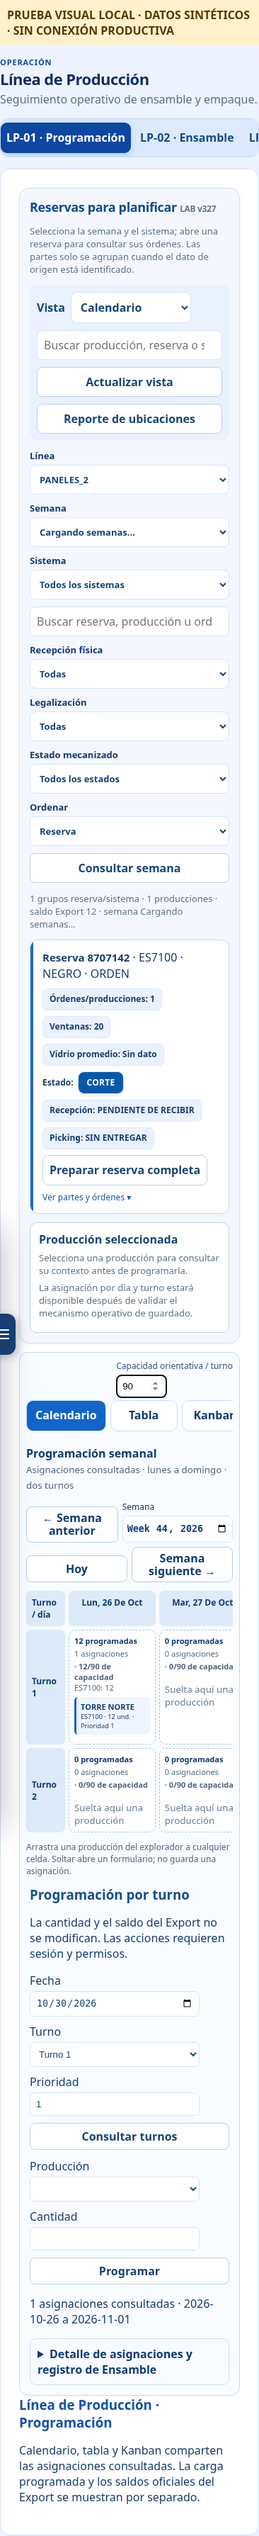
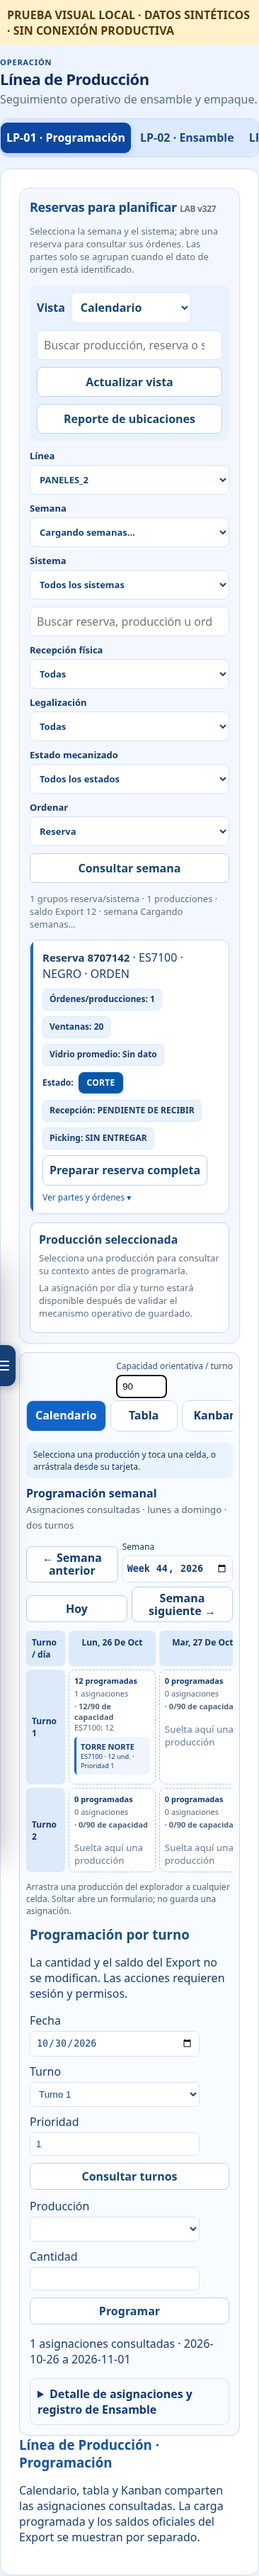
fix(lp01): arrastrar tarjetas en PC y móvil

diff --git a/src/modules/lp01-workspace-e3.js b/src/modules/lp01-workspace-e3.js
@@ -92,15 +92,81 @@
   capacity.addEventListener('input', markCapacity);
   markCapacity();
 
-  // The drop only prepares the existing single-production form. A separate click saves it.
-  explorer.addEventListener('dragstart', event => {
-    const button = event.target.closest('[data-plan-key]');
-    if (!button?.dataset.planKey) return;
-    event.dataTransfer.setData('text/plain', button.dataset.planKey);
-    event.dataTransfer.effectAllowed = 'copy';
+  // Every interaction prepares the existing single-production form; none writes data.
+  const results = explorer.querySelector('#sgpExplorerResults');
+  const viewContent = operations.querySelector('.sgp-line-view-content');
+  const selectedStatus = document.createElement('p');
+  selectedStatus.className = 'lp01-selection-status';
+  selectedStatus.setAttribute('role', 'status');
+  selectedStatus.textContent = 'Selecciona una producción y toca una celda, o arrástrala desde su tarjeta.';
+  operations.querySelector('.sgp-line-views')?.insertBefore(selectedStatus, viewContent);
+  let selectedKey = null;
+  let dragKey = null;
+  let activeCell = null;
+  const cards = () => [...results.querySelectorAll('.sgp-explorer-order[data-lp-key]')];
+  const cells = () => [...operations.querySelectorAll('.lp-week-cell[data-lp-date][data-lp-shift]')];
+  const rowFor = key => (window.SGPPlannerBridge?.getRows?.() || []).find(item => String(item.key_produccion) === String(key));
+  function markReady(ready) { cells().forEach(cell => cell.classList.toggle('lp01-drop-ready', ready)); }
+  function highlight(cell) {
+    if (activeCell === cell) return;
+    activeCell?.classList.remove('lp01-drop-active');
+    activeCell = cell;
+    activeCell?.classList.add('lp01-drop-active');
+  }
+  function selectCard(key) {
+    const row = rowFor(key);
+    if (!row) return false;
+    selectedKey = key;
+    cards().forEach(card => { const selected = card.dataset.lpKey === key; card.classList.toggle('lp01-card-selected', selected); card.setAttribute('aria-selected', String(selected)); });
+    selectedStatus.textContent = `${row.produccion || key} seleccionada. Toca una celda de día y turno, o arrastra la tarjeta.`;
+    markReady(true);
+    return true;
+  }
+  function clearDragVisual() { dragKey = null; cards().forEach(card => card.classList.remove('lp01-drag-source')); highlight(null); markReady(Boolean(selectedKey)); }
+  const confirmation = document.createElement('dialog');
+  confirmation.className = 'lp01-drop-dialog';
+  confirmation.innerHTML = '<form method="dialog"><h3>Preparar programación</h3><p id="lp01DropContext"></p><label>Cantidad <input id="lp01DropQuantity" type="number" min="1" step="1" required></label><label>Prioridad <input id="lp01DropPriority" type="number" min="1" step="1" required></label><p>La asignación se guardará únicamente después de pulsar Programar en el formulario existente.</p><div class="lp01-drop-actions"><button type="button" id="lp01DropCancel">Cancelar</button><button type="submit">Preparar formulario</button></div></form>';
+  document.body.append(confirmation);
+  let dropSelection = null;
+  function openDrop(key, target) {
+    if (confirmation.open || !target?.dataset.lpDate || !['1', '2'].includes(target.dataset.lpShift)) return;
+    const row = rowFor(key);
+    if (!row) { document.getElementById('sgpPlanMessage').textContent = 'Producción no disponible en la hoja cargada.'; return; }
+    dropSelection = { key, date: target.dataset.lpDate, shift: target.dataset.lpShift };
+    confirmation.querySelector('#lp01DropContext').textContent = `${row.produccion || key} · ${dropSelection.date} · Turno ${dropSelection.shift}`;
+    confirmation.querySelector('#lp01DropQuantity').value = Number(row.saldo_ensamble) > 0 ? String(Number(row.saldo_ensamble)) : '';
+    confirmation.querySelector('#lp01DropPriority').value = document.getElementById('sgpPlanPriority').value || '1';
+    confirmation.showModal();
+  }
+  confirmation.querySelector('#lp01DropCancel').onclick = () => confirmation.close();
+  confirmation.addEventListener('close', () => { dropSelection = null; });
+  confirmation.querySelector('form').addEventListener('submit', event => {
+    event.preventDefault();
+    if (!dropSelection) return;
+    const quantity = Number(confirmation.querySelector('#lp01DropQuantity').value);
+    const priority = Number(confirmation.querySelector('#lp01DropPriority').value);
+    if (!Number.isInteger(quantity) || quantity < 1 || !Number.isInteger(priority) || priority < 1) return;
+    const result = window.SGPLinePlanner?.selectProduction?.(dropSelection.key);
+    if (!result?.ok) { document.getElementById('sgpPlanMessage').textContent = result?.message || 'No se pudo seleccionar la producción.'; confirmation.close(); return; }
+    document.getElementById('sgpPlanDate').value = dropSelection.date;
+    document.getElementById('sgpPlanShift').value = dropSelection.shift;
+    document.getElementById('sgpPlanQuantity').value = String(quantity);
+    document.getElementById('sgpPlanPriority').value = String(priority);
+    confirmation.close();
+    document.getElementById('sgpPlanMessage').textContent = 'Formulario preparado. Revisa las asignaciones existentes y pulsa Programar para solicitar el guardado.';
+    document.getElementById('sgpPlanProduction')?.scrollIntoView({ block: 'center', behavior: 'smooth' });
   });
   const makeDraggable = () => {
-    explorer.querySelectorAll('[data-plan-key]').forEach(button => { button.draggable = Boolean(button.dataset.planKey); });
+    results.querySelectorAll('.sgp-explorer-order').forEach(card => {
+      const key = card.querySelector('[data-plan-key]')?.dataset.planKey;
+      if (!key) return;
+      card.dataset.lpKey = key;
+      card.draggable = true;
+      card.tabIndex = 0;
+      card.setAttribute('role', 'option');
+      card.setAttribute('aria-selected', String(key === selectedKey));
+      card.classList.toggle('lp01-card-selected', key === selectedKey);
+    });
     explorer.querySelectorAll('.sgp-explorer-reservation').forEach(reservation => {
       if (reservation.querySelector('[data-plan-reserve]')) return;
       const button = document.createElement('button');
@@ -119,48 +185,104 @@
       reservation.querySelector('summary')?.append(button);
     });
   };
-  new MutationObserver(makeDraggable).observe(explorer.querySelector('#sgpExplorerResults'), { childList: true, subtree: true });
+  new MutationObserver(makeDraggable).observe(results, { childList: true, subtree: true });
   makeDraggable();
-  const confirmation = document.createElement('dialog');
-  confirmation.className = 'lp01-drop-dialog';
-  confirmation.innerHTML = '<form method="dialog"><h3>Preparar programación</h3><p id="lp01DropContext"></p><label>Cantidad <input id="lp01DropQuantity" type="number" min="1" step="1" required></label><label>Prioridad <input id="lp01DropPriority" type="number" min="1" step="1" required></label><p>La asignación se guardará únicamente después de pulsar Programar en el formulario existente.</p><div class="lp01-drop-actions"><button type="button" id="lp01DropCancel">Cancelar</button><button type="submit">Preparar formulario</button></div></form>';
-  document.body.append(confirmation);
-  let dropSelection = null;
-  confirmation.querySelector('#lp01DropCancel').onclick = () => confirmation.close();
-  confirmation.querySelector('form').addEventListener('submit', event => {
-    event.preventDefault();
-    if (!dropSelection) return;
-    const quantity = Number(confirmation.querySelector('#lp01DropQuantity').value);
-    const priority = Number(confirmation.querySelector('#lp01DropPriority').value);
-    if (!Number.isInteger(quantity) || quantity < 1 || !Number.isInteger(priority) || priority < 1) return;
-    const result = window.SGPLinePlanner?.selectProduction?.(dropSelection.key);
-    if (!result?.ok) { document.getElementById('sgpPlanMessage').textContent = result?.message || 'No se pudo seleccionar la producción.'; confirmation.close(); return; }
-    document.getElementById('sgpPlanDate').value = dropSelection.date;
-    document.getElementById('sgpPlanShift').value = dropSelection.shift;
-    document.getElementById('sgpPlanQuantity').value = String(quantity);
-    document.getElementById('sgpPlanPriority').value = String(priority);
-    confirmation.close();
-    document.getElementById('sgpPlanMessage').textContent = 'Formulario preparado. Revisa las asignaciones existentes y pulsa Programar para solicitar el guardado.';
-    document.getElementById('sgpPlanProduction')?.scrollIntoView({ block: 'center', behavior: 'smooth' });
+  explorer.addEventListener('click', event => {
+    const card = event.target.closest('.sgp-explorer-order[data-lp-key]');
+    if (!card || event.target.closest('button')) return;
+    selectCard(card.dataset.lpKey);
   });
-  operations.addEventListener('dragover', event => { if (event.target.closest('[data-lp-shift]')) event.preventDefault(); });
+  explorer.addEventListener('keydown', event => {
+    const card = event.target.closest('.sgp-explorer-order[data-lp-key]');
+    if (card && (event.key === 'Enter' || event.key === ' ')) { event.preventDefault(); selectCard(card.dataset.lpKey); }
+  });
+  operations.addEventListener('click', event => { const cell = event.target.closest('.lp-week-cell'); if (cell && selectedKey) openDrop(selectedKey, cell); });
+  explorer.addEventListener('dragstart', event => {
+    const card = event.target.closest('.sgp-explorer-order[data-lp-key]');
+    if (!card) return;
+    dragKey = card.dataset.lpKey;
+    selectCard(dragKey);
+    card.classList.add('lp01-drag-source');
+    event.dataTransfer.setData('text/plain', dragKey);
+    event.dataTransfer.effectAllowed = 'copy';
+    markReady(true);
+  });
+  explorer.addEventListener('dragend', clearDragVisual);
+  operations.addEventListener('dragover', event => {
+    const cell = event.target.closest('.lp-week-cell');
+    if (!cell || !dragKey) return;
+    event.preventDefault();
+    event.dataTransfer.dropEffect = 'copy';
+    highlight(cell);
+  });
+  operations.addEventListener('dragleave', event => { if (!operations.contains(event.relatedTarget)) highlight(null); });
   operations.addEventListener('drop', event => {
-    const target = event.target.closest('[data-lp-shift]');
-    if (!target) return;
+    const cell = event.target.closest('.lp-week-cell');
+    if (!cell || !dragKey) return;
     event.preventDefault();
-    const key = event.dataTransfer.getData('text/plain');
-    if (!key) return;
-    const row = window.SGPPlannerBridge?.getRows?.().find(item => String(item.key_produccion) === key);
-    if (!row) { document.getElementById('sgpPlanMessage').textContent = 'Producción no disponible en la hoja cargada.'; return; }
-    dropSelection = { key, date: target.dataset.lpDate, shift: target.dataset.lpShift };
-    confirmation.querySelector('#lp01DropContext').textContent = `${row.produccion || key} · ${dropSelection.date} · Turno ${dropSelection.shift}`;
-    confirmation.querySelector('#lp01DropQuantity').value = Number(row.saldo_ensamble) > 0 ? String(Number(row.saldo_ensamble)) : '';
-    confirmation.querySelector('#lp01DropPriority').value = document.getElementById('sgpPlanPriority').value || '1';
-    confirmation.showModal();
+    const key = dragKey;
+    clearDragVisual();
+    openDrop(key, cell);
   });
+  // Touch events remain passive until the long press starts. Normal scrolling is untouched.
+  let touch = null;
+  const ghost = document.createElement('div');
+  ghost.className = 'lp01-touch-ghost';
+  ghost.hidden = true;
+  document.body.append(ghost);
+  function endTouch() {
+    if (touch?.timer) clearTimeout(touch.timer);
+    if (touch?.scrollTimer) clearInterval(touch.scrollTimer);
+    touch = null;
+    ghost.hidden = true;
+    clearDragVisual();
+  }
+  function touchCell(point) { return document.elementFromPoint(point.clientX ?? point.x, point.clientY ?? point.y)?.closest('.lp-week-cell') || null; }
+  explorer.addEventListener('touchstart', event => {
+    const card = event.target.closest('.sgp-explorer-order[data-lp-key]');
+    if (!card || event.touches.length !== 1) return;
+    const point = event.touches[0];
+    touch = { key: card.dataset.lpKey, x: point.clientX, y: point.clientY, active: false, timer: setTimeout(() => {
+      if (!touch) return;
+      touch.active = true;
+      selectCard(touch.key);
+      card.classList.add('lp01-drag-source');
+      ghost.textContent = rowFor(touch.key)?.produccion || 'Producción';
+      ghost.hidden = false;
+      ghost.style.transform = `translate(${touch.x + 12}px,${touch.y + 12}px)`;
+      touch.scrollTimer = setInterval(() => {
+        if (!touch?.active) return;
+        if (touch.y > window.innerHeight - 70) window.scrollBy(0, 16);
+        else if (touch.y < 70) window.scrollBy(0, -16);
+        const scroll = operations.querySelector('.lp-week-scroll');
+        if (scroll) { const box = scroll.getBoundingClientRect(); if (touch.y >= box.top && touch.y <= box.bottom) { if (touch.x > box.right - 45) scroll.scrollLeft += 18; else if (touch.x < box.left + 45) scroll.scrollLeft -= 18; } }
+        highlight(touchCell(touch));
+      }, 24);
+    }, 380) };
+  }, { passive: true });
+  document.addEventListener('touchmove', event => {
+    if (!touch || event.touches.length !== 1) return;
+    const point = event.touches[0];
+    if (!touch.active) { if (Math.hypot(point.clientX - touch.x, point.clientY - touch.y) > 12) endTouch(); return; }
+    event.preventDefault();
+    touch.x = point.clientX; touch.y = point.clientY;
+    ghost.style.transform = `translate(${touch.x + 12}px,${touch.y + 12}px)`;
+    if (point.clientY > window.innerHeight - 70) window.scrollBy(0, 26);
+    else if (point.clientY < 70) window.scrollBy(0, -26);
+    const scroll = operations.querySelector('.lp-week-scroll');
+    if (scroll) { const box = scroll.getBoundingClientRect(); if (point.clientY >= box.top && point.clientY <= box.bottom) { if (point.clientX > box.right - 45) scroll.scrollLeft += 25; else if (point.clientX < box.left + 45) scroll.scrollLeft -= 25; } }
+    highlight(touchCell(point));
+  }, { passive: false });
+  document.addEventListener('touchend', event => {
+    if (!touch) return;
+    if (touch.active) { event.preventDefault(); const point = event.changedTouches[0]; const cell = point && touchCell(point); const key = touch.key; endTouch(); if (cell) openDrop(key, cell); else selectedStatus.textContent = 'Producción seleccionada. Desplázate al calendario y toca una celda.'; }
+    else endTouch();
+  }, { passive: false });
+  document.addEventListener('touchcancel', endTouch, { passive: true });
 
   const style = document.createElement('style');
   style.textContent = `.lp01-workspace{display:grid;grid-template-columns:minmax(280px,var(--lp01-left)) 9px minmax(0,1fr);align-items:start;gap:0;min-width:0}.lp01-workspace #sgpPlannerExplorer{min-width:0;margin:0;max-height:82vh;overflow:auto}.lp01-workspace .sgp-planner-operations{min-width:0;margin:0}.lp01-workspace #sgpExplorerResults{display:grid;grid-template-columns:minmax(0,1fr)}.lp01-workspace .sgp-explorer-filters{display:grid!important;grid-template-columns:repeat(2,minmax(0,1fr))!important;gap:8px}.lp01-workspace .sgp-explorer-filters>*{min-width:0!important;width:100%;box-sizing:border-box}.lp01-workspace .sgp-explorer-filters select,.lp01-workspace .sgp-explorer-filters input{min-width:0!important;width:100%;box-sizing:border-box}.lp01-workspace .sgp-explorer-view-actions>*{min-width:0;max-width:100%}.lp01-workspace .sgp-line-days{grid-template-columns:repeat(7,minmax(0,1fr))}.lp01-workspace .sgp-line-day{min-width:0;padding:7px;font-size:11px}.lp01-splitter{height:100%;min-height:500px;cursor:col-resize;background:#dbe8f8;border-left:2px solid #9fc0eb;border-right:2px solid #9fc0eb}.lp01-splitter:focus-visible{outline:3px solid #1264c8;outline-offset:2px}.lp01-line-filter{display:grid;gap:4px}.lp01-capacity{display:flex;gap:8px;align-items:center;justify-content:flex-end;color:#36567e;font-size:12px}.lp01-capacity input{width:72px!important}.lp01-capacity-warning{color:#385b83;font-weight:700}.lp01-assignment-disclosure{margin-top:10px;border:1px solid #d5e1ef;border-radius:9px;padding:10px}.lp01-assignment-disclosure summary{cursor:pointer;font-weight:700;color:#103b73}.lp01-workspace [data-plan-key]{cursor:grab}.lp01-workspace [data-plan-reserve]{display:block;margin-top:8px;border:1px solid #1264c8;border-radius:8px;background:#fff;color:#103b73;min-height:36px}.lp01-workspace [data-lp-shift]{min-height:84px;border:1px dashed #a5c5eb}@media(max-width:900px){.lp01-workspace{display:block}.lp01-splitter{display:none}.lp01-workspace #sgpPlannerExplorer{max-height:none}.lp01-workspace .sgp-planner-operations{margin-top:12px}.lp01-workspace .sgp-line-days{grid-template-columns:repeat(2,minmax(0,1fr))}.lp01-workspace .sgp-explorer-filters{grid-template-columns:1fr!important}}`;
   style.textContent += '.lp01-workspace #sgpPendingAssemblyQueue[hidden]{display:none!important}.lp-week-toolbar{display:flex;align-items:end;justify-content:space-between;gap:12px;flex-wrap:wrap;margin:8px 0 12px}.lp-week-toolbar h4{margin:0;color:#103b73}.lp-week-toolbar small{color:#526781}.lp-week-controls{display:flex;align-items:end;gap:6px;flex-wrap:wrap}.lp-week-controls label{font-size:12px}.lp-week-controls button,.lp-week-controls input{min-height:38px;padding:6px;border:1px solid #b9cfe9;border-radius:8px;background:#fff;color:#103b73;font-weight:650}.lp-week-scroll{overflow-x:auto;max-width:100%}.lp-week-grid{display:grid;grid-template-columns:64px repeat(7,minmax(0,1fr));gap:5px;min-width:0}.lp-week-corner,.lp-week-day,.lp-week-shift{padding:8px;background:#dceafa;color:#103b73;font-size:12px;font-weight:750;border-radius:7px}.lp-week-day{text-align:center;text-transform:capitalize}.lp-week-shift{display:flex;align-items:center}.lp-week-cell{min-width:0;min-height:132px;padding:7px;border:1px dashed #9fc0eb;border-radius:9px;background:#fff;box-sizing:border-box;overflow-wrap:anywhere}.lp-week-cell-head{display:grid;gap:3px;color:#103b73;font-size:11px}.lp-week-cell-head small,.lp-week-systems{display:block;color:#526781;font-size:11px}.lp-week-empty{display:block;margin-top:16px;color:#68809c}.lp-week-assignment{padding:6px;margin:6px 0;border-left:3px solid #1264c8;border-radius:5px;background:#eef5ff;font-size:11px}.lp-week-assignment strong,.lp-week-assignment small{display:block}.lp-week-legend{font-size:12px;color:#526781}.lp-week-cell:focus-within,.lp-week-cell:hover{border-color:#1264c8;background:#f7fbff}.lp01-drop-dialog{max-width:min(420px,calc(100vw - 24px));border:1px solid #9fc0eb;border-radius:14px;padding:22px;box-shadow:0 20px 55px #102e5366;color:#103b73}.lp01-drop-dialog::backdrop{background:#102e5380}.lp01-drop-dialog form{display:grid;gap:12px}.lp01-drop-dialog h3,.lp01-drop-dialog p{margin:0}.lp01-drop-dialog label{display:grid;gap:4px}.lp01-drop-dialog input{width:100%;box-sizing:border-box;min-height:42px}.lp01-drop-actions{display:flex;justify-content:flex-end;gap:8px}.lp01-drop-actions button{min-height:42px;padding:8px 12px;border-radius:8px;border:1px solid #1264c8;background:#fff;color:#103b73}.lp01-drop-actions button[type=submit]{background:#1264c8;color:white}@media(max-width:900px){.lp-week-grid{grid-template-columns:55px repeat(7,minmax(120px,1fr));min-width:950px}.lp-week-controls{width:100%}.lp-week-controls button{flex:1}}';
+  style.textContent += '.lp01-workspace .sgp-explorer-order[data-lp-key]{cursor:grab;touch-action:auto}.lp01-workspace .sgp-explorer-order[data-lp-key]:focus-visible{outline:3px solid #1264c8}.lp01-workspace .sgp-explorer-order.lp01-card-selected{border:2px solid #1264c8;background:#e9f3ff}.lp01-workspace .sgp-explorer-order.lp01-drag-source{opacity:.58}.lp01-workspace .lp-week-cell.lp01-drop-ready{border:2px dashed #1264c8;background:#eef6ff}.lp01-workspace .lp-week-cell.lp01-drop-active{border:3px solid #0a8d69;background:#dff9ee;box-shadow:inset 0 0 0 2px #fff}.lp01-selection-status{margin:4px 0 10px;padding:8px 10px;border-radius:8px;background:#e9f3ff;color:#103b73;font-size:12px}.lp01-touch-ghost{position:fixed;top:0;left:0;z-index:9999;max-width:180px;padding:8px 12px;border-radius:9px;background:#103b73;color:#fff;box-shadow:0 6px 20px #102e5366;pointer-events:none;font-weight:700;font-size:12px}.lp01-touch-ghost[hidden]{display:none}';
   document.head.append(style);
 })();

diff --git a/tests/lp01-e3-browser.py b/tests/lp01-e3-browser.py
@@ -10,7 +10,7 @@ OUT.mkdir(parents=True, exist_ok=True)
 def run(page, label):
     errors = []
     page.on('pageerror', lambda error: errors.append(str(error)))
-    page.goto('http://127.0.0.1:8768/', wait_until='domcontentloaded')
+    page.goto('http://127.0.0.1:8769/', wait_until='domcontentloaded')
     page.evaluate("""() => {
       const section=document.querySelector('[data-view-panel="ensamble"]');section.hidden=false;
       const marker=document.createElement('p');marker.textContent='PRUEBA VISUAL LOCAL · DATOS SINTÉTICOS · SIN CONEXIÓN PRODUCTIVA';marker.style='padding:10px;background:#fff1cc;color:#563900;font-weight:700';section.prepend(marker);
@@ -47,7 +47,7 @@ def run(page, label):
     page.locator('[data-week-action="prev"]').click()
     page.wait_for_function("document.querySelector('#sgpPlanWeek')?.value==='2026-W44'")
     page.locator('.sgp-explorer-reservation > summary').click()
-    source = page.locator('[data-plan-key="KEY1"]')
+    source = page.locator('.sgp-explorer-order[data-lp-key="KEY1"]')
     if label == 'pc':
         target = page.locator('[data-lp-date="2026-10-26"][data-lp-shift="1"]')
         source.drag_to(target)
@@ -56,6 +56,7 @@ def run(page, label):
         page.screenshot(path=str(OUT / 'pc-arrastre-confirmacion.png'), full_page=False)
         page.locator('#lp01DropCancel').click()
         assert not page.locator('.lp01-drop-dialog').is_visible()
+        assert page.locator('#sgpPlanPriority').input_value() == '1'
         assert not page.evaluate("window.__lpCalls.some(x=>x.name==='sgp_linea_plan_programar')")
         target = page.locator('[data-lp-date="2026-10-29"][data-lp-shift="2"]')
         source.drag_to(target)
@@ -68,8 +69,39 @@ def run(page, label):
         assert page.locator('#sgpPlanQuantity').input_value() == '3'
         assert page.locator('#sgpPlanPriority').input_value() == '2'
     else:
+        # Real Chromium touch stream: hold, move while the page/calendar scrolls, release.
+        source.scroll_into_view_if_needed()
+        box = source.bounding_box()
+        session = page.context.new_cdp_session(page)
+        session.send('Input.dispatchTouchEvent', {'type': 'touchStart', 'touchPoints': [{'x': box['x'] + 30, 'y': min(box['y'] + 35, 800), 'id': 1}]})
+        page.wait_for_timeout(500)
+        assert page.locator('.lp01-touch-ghost').is_visible()
+        session.send('Input.dispatchTouchEvent', {'type': 'touchMove', 'touchPoints': [{'x': 350, 'y': 800, 'id': 1}]})
+        touch_target = page.locator('[data-lp-date="2026-10-29"][data-lp-shift="2"]')
+        for _ in range(30):
+            page.wait_for_timeout(120)
+            box = touch_target.bounding_box()
+            if box and 0 < box['x'] < 300 and 120 < box['y'] < 620:
+                break
+        assert box and 0 < box['x'] < 300 and 120 < box['y'] < 620, 'La celda no fue alcanzable durante el arrastre táctil'
+        session.send('Input.dispatchTouchEvent', {'type': 'touchMove', 'touchPoints': [{'x': box['x'] + 30, 'y': box['y'] + 40, 'id': 1}]})
+        page.wait_for_timeout(100)
+        page.screenshot(path=str(OUT / 'movil-arrastre-en-curso.png'), full_page=False)
+        session.send('Input.dispatchTouchEvent', {'type': 'touchEnd', 'touchPoints': []})
+        assert page.locator('.lp01-drop-dialog').is_visible()
+        assert '2026-10-29 · Turno 2' in page.locator('#lp01DropContext').inner_text()
+        page.screenshot(path=str(OUT / 'movil-arrastre-tactil.png'), full_page=False)
+        page.locator('#lp01DropCancel').click()
+        assert page.locator('#sgpPlanPriority').input_value() == '1'
+        assert not page.evaluate("window.__lpCalls.some(x=>x.name==='sgp_linea_plan_programar')")
         source.click()
-        assert page.locator('#sgpPlanProduction').input_value() == 'KEY1'
+        assert page.locator('.lp01-card-selected').count() == 1
+        assert page.locator('#sgpPlanProduction').input_value() != 'KEY1'
+        page.locator('[data-lp-date="2026-10-29"][data-lp-shift="2"]').click()
+        assert page.locator('.lp01-drop-dialog').is_visible()
+        page.screenshot(path=str(OUT / 'movil-seleccion-toque.png'), full_page=False)
+        page.locator('#lp01DropCancel').click()
+        assert not page.evaluate("window.__lpCalls.some(x=>x.name==='sgp_linea_plan_programar')")
     assert not page.evaluate("window.__lpCalls.some(x=>x.name==='sgp_linea_plan_programar')")
     page.locator('.sgp-line-view-tabs [data-view="table"]').click()
     assert page.locator('.sgp-line-table-wrap tbody tr').count() >= 1
@@ -81,7 +113,7 @@ def run(page, label):
 with sync_playwright() as playwright:
     browser = playwright.chromium.launch(executable_path='/usr/bin/chromium', args=['--no-sandbox'])
     for name, width, height in [('pc', 1440, 900), ('movil', 390, 844)]:
-        page = browser.new_page(viewport={'width': width, 'height': height})
+        page = browser.new_page(viewport={'width': width, 'height': height}, has_touch=name == 'movil', is_mobile=name == 'movil')
         run(page, name)
         page.close()
     browser.close()

diff --git a/docs/SGP_LP01_E3_CONTINUIDAD.md b/docs/SGP_LP01_E3_CONTINUIDAD.md
@@ -1,5 +1,15 @@
 # LP-01 Programación E3 · checkpoint
 
+## Corrección de arrastre por tarjeta y táctil · LAB v371
+
+Estado: **IMPLEMENTADO EN RAMA, VERIFICADO LOCALMENTE CON DATOS SINTÉTICOS**. Rama `fix/lp01-production-card-drag-v371`, base `main` `3389d98db9eec003b6bbf662bb81bc8eb3f964a5`. No fusionado, no publicado y sin cambios en Supabase.
+
+- `src/modules/lp01-workspace-e3.js`: la tarjeta completa de producción inicia HTML Drag and Drop en PC; sus celdas muestran destino disponible y resaltan el destino bajo el ratón. En móvil, una pulsación prolongada inicia un movimiento táctil real, muestra la producción seleccionada y permite desplazar página y calendario horizontalmente antes de soltar. Tocar una tarjeta y después cualquier celda ofrece una alternativa sin arrastre. Teclado: la tarjeta acepta Enter/Espacio y después puede seleccionarse la celda.
+- Los tres caminos comparten **un solo diálogo**. Cantidad y prioridad son editables; cancelar no altera el formulario; «Preparar formulario» precarga los campos existentes y **no escribe**. Solo el botón Programar, seguido de su confirmación, puede invocar `sgp_linea_plan_programar`. El guardado agrupado continúa deshabilitado.
+- `python tests/lp01-e3-browser.py`: ratón PC 1440×900 desde la tarjeta completa; flujo táctil Chromium por `Input.dispatchTouchEvent` en 390×844, con pulsación prolongada, autodesplazamiento y soltado en jueves/T2; alternativa toque/tarjeta; cancelación sin cambios de prioridad ni RPC de escritura; regresión de 14 celdas, semanas, Tabla y Kanban. Capturas sintéticas rotuladas en `docs/evidence/lp01-week-grid/`.
+- Regresión dirigida: 32/32. `npm run build:vendor`, `npm run verify:release` (LAB v371), sintaxis JS y `git diff --check`: correctos.
+- Límite: la prueba usa datos y respuestas RPC sintéticos. Falta verificación con sesión autorizada y dispositivos físicos de la planta; no implica despliegue ni validación productiva.
+
 ## Corrección de cuadrícula y arrastre · LAB v370
 
 Estado: **IMPLEMENTADO EN RAMA Y VERIFICADO LOCALMENTE CON DATOS SINTÉTICOS**; no fusionado ni publicado. Rama `fix/lp01-week-grid-drag-e3`, base `main` `44d7e44412438829b92cfbb0594496373c819997`.
